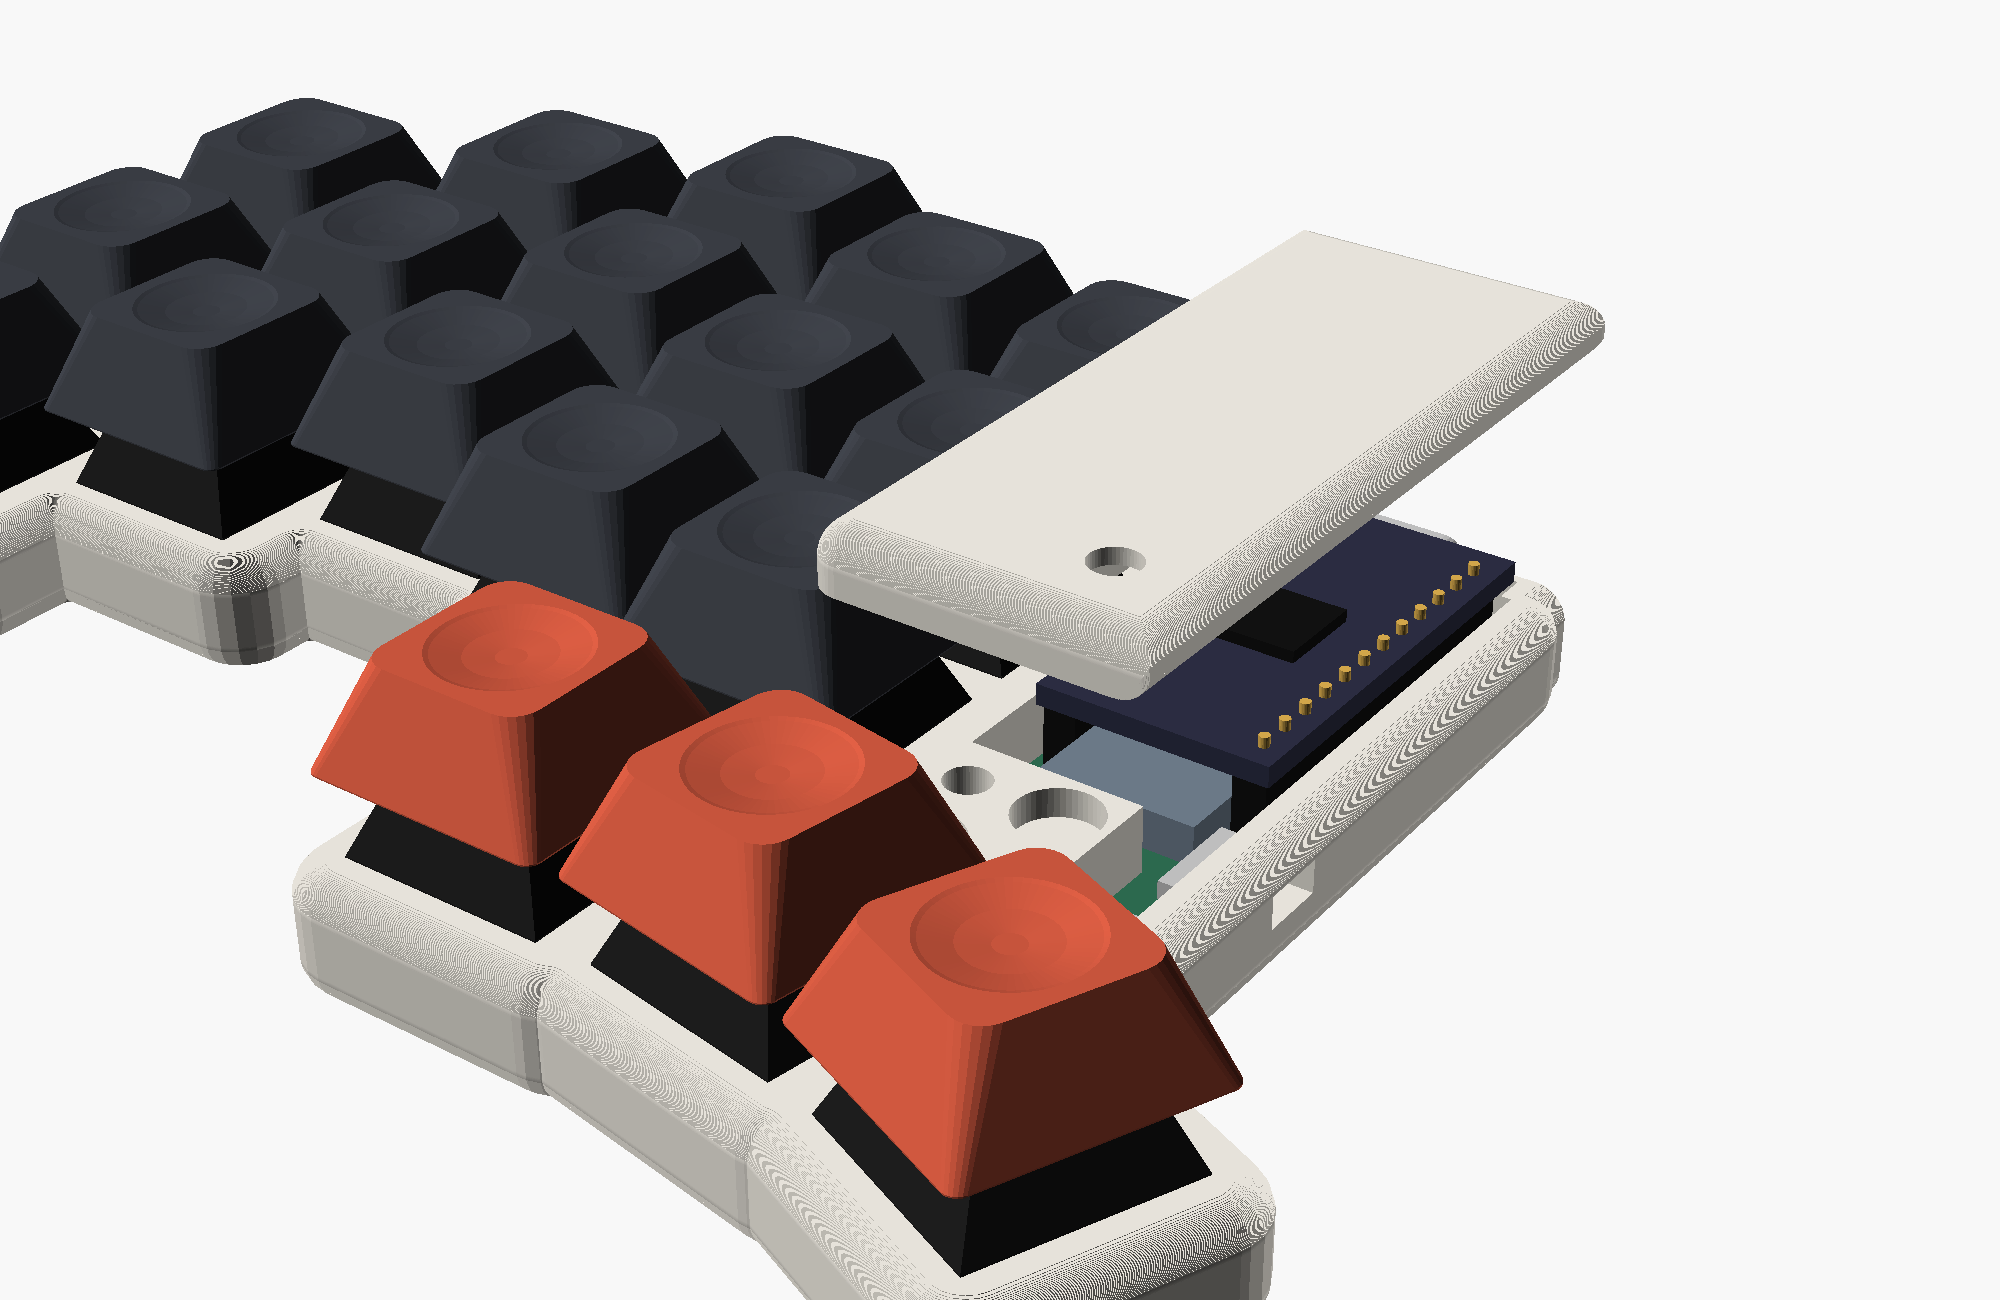
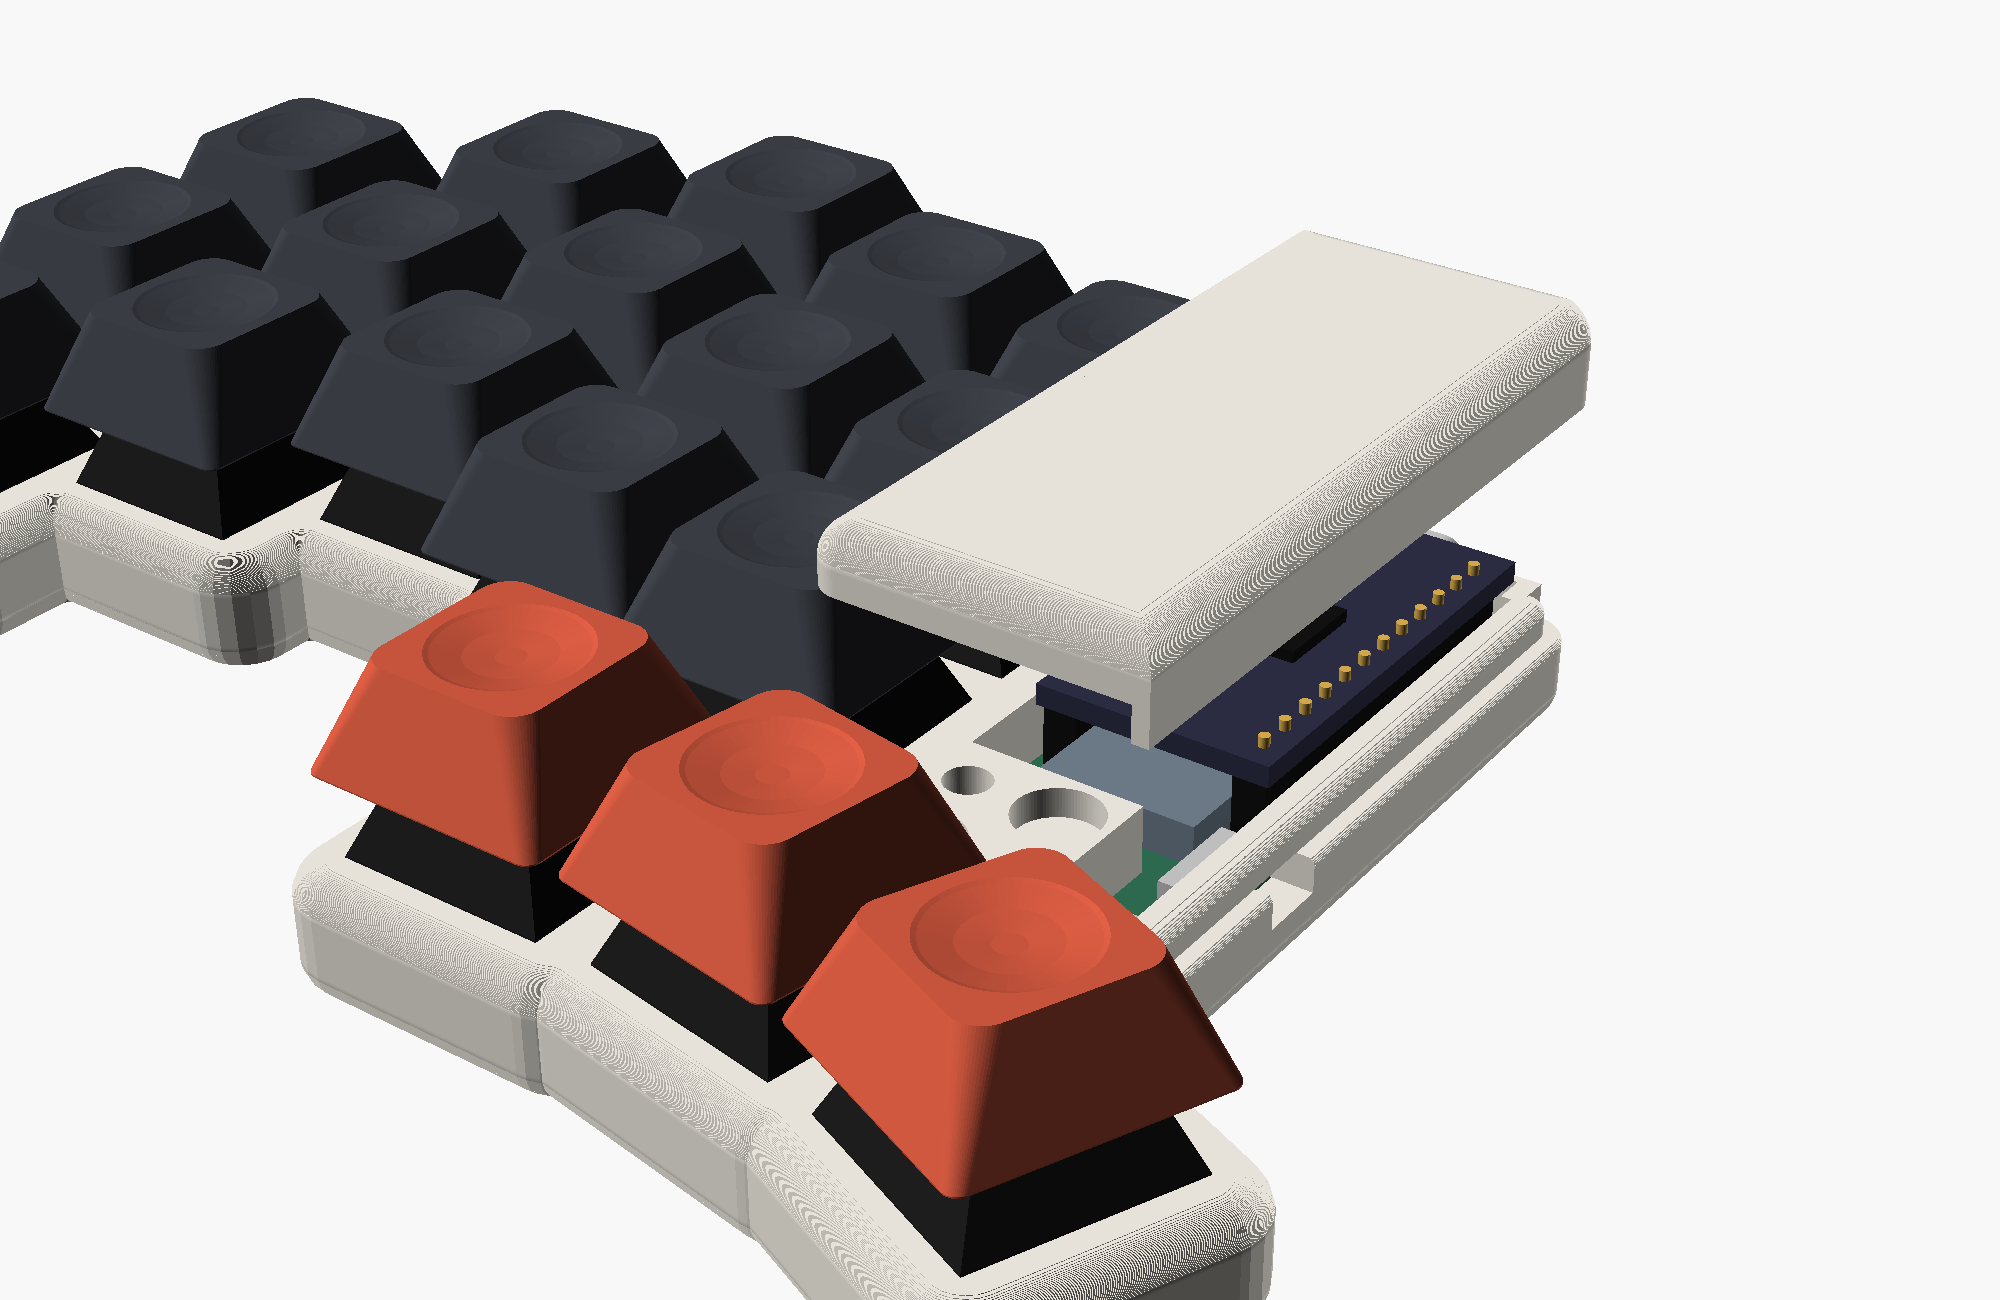
Case: cover skirt over the joint, rounded USB-end corner, no reset hole
The cover gets a skirt along its outer side that reaches over the top
frame's edge, so case and cover read as one wall; the frame steps in
under it, with rounded edges for when the cover is off. The corner
where the outer side meets the flat USB end is rounded again (3 mm),
with the skirt and step nested about the same centre. The reset hole
is gone: take the cover off to press reset. Parts render at $fn 96;
renders refreshed.

Changed region(s): [[0.403, 0.2154, 0.806, 0.5846], [0.558, 0.4615, 0.806, 0.7385]]

diff --git a/case/readme.md b/case/readme.md
@@ -24,7 +24,7 @@ are in KiCad coordinates, see `at()` in `modules.scad`.
 Compared to the cheapino case: no RJ45 or diode cutouts; both halves get a
 nice!nano well, a snug USB-C opening in a flat end face (lower half in the top
 frame, upper half in the cover), a slot for the power switch lever and
-a hole to press reset (through the cover too). The battery sits under the nice!nano,
+room for the reset button (take the cover off to press it). The battery sits under the nice!nano,
 between the socket rows, and may stick out about 6 mm past its end. The nano's stack (socket height, parts, mid-mount USB-C position and size,
 clearances) is set in the "cover over the nice!nano" part of `modules.scad`.
 To fit the encoder after all, pass `encoder=true` in `expensivo-top-right.scad`;
